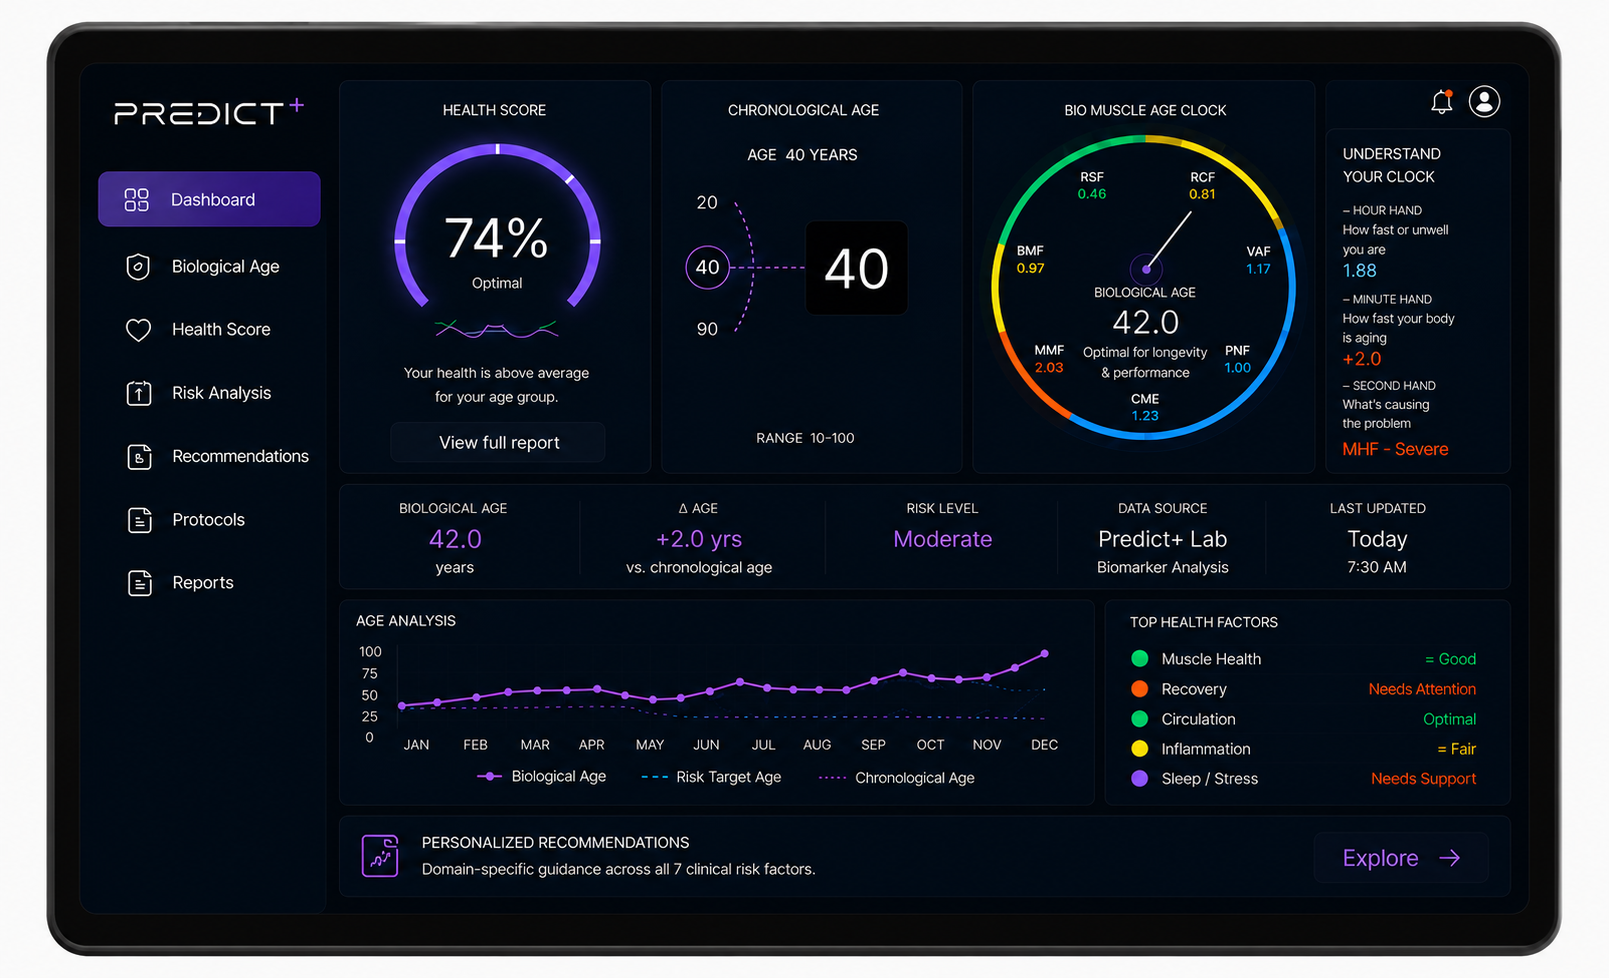
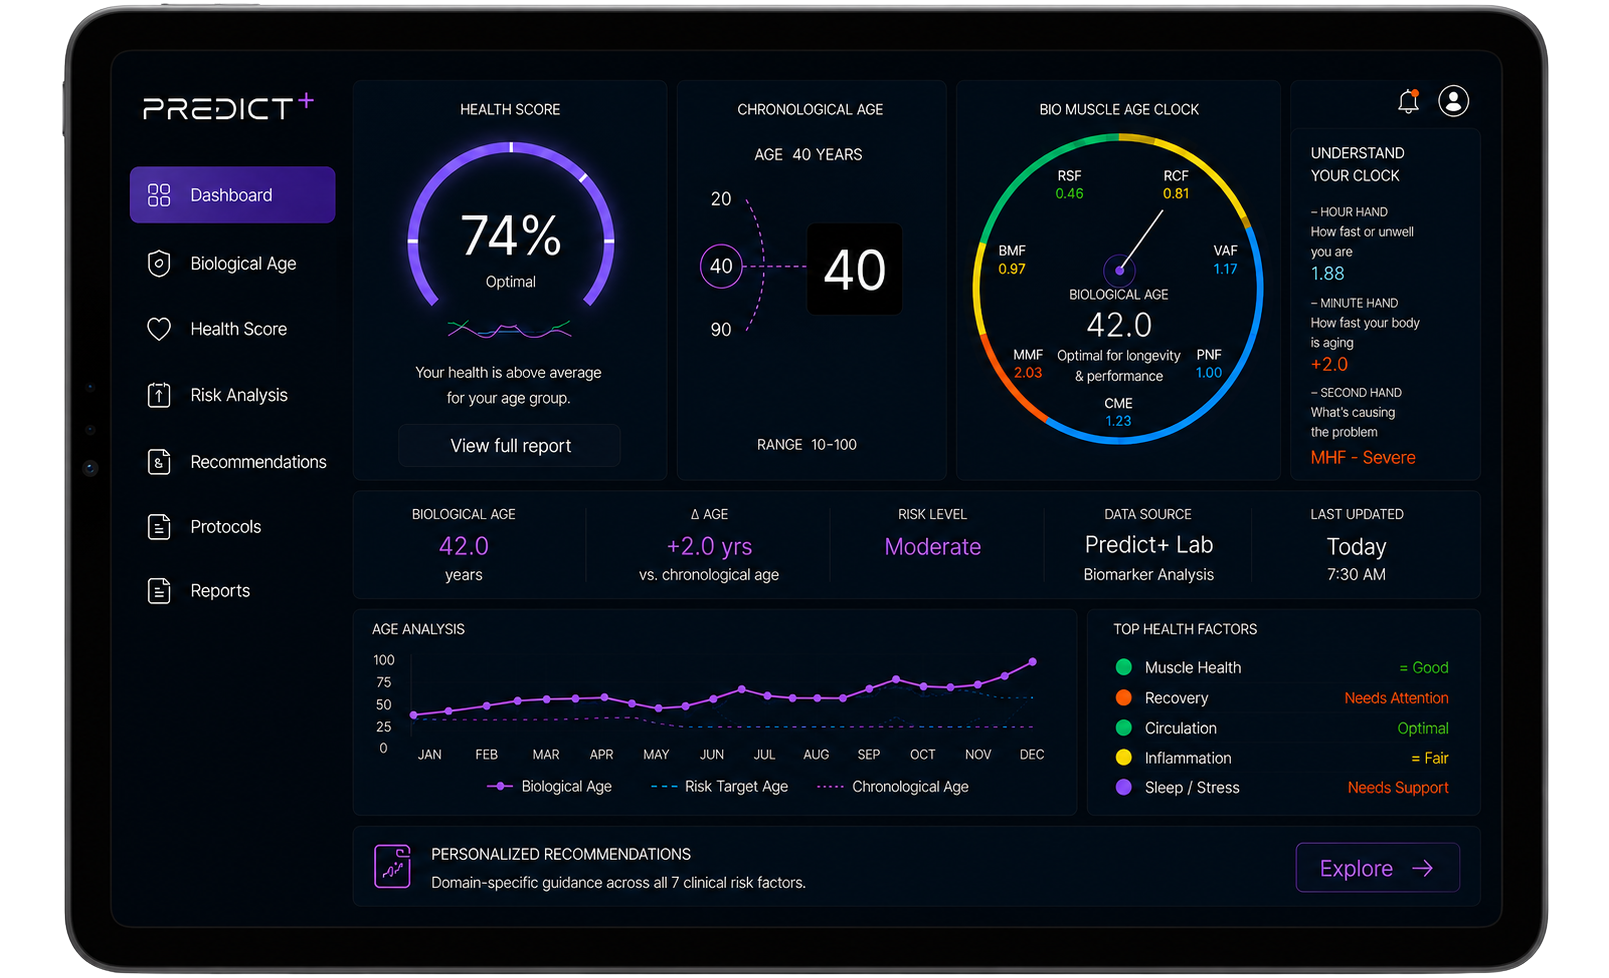
Update dashboard asset, single-row left-to-right testimonial marquee, and biomarker zoom-in scroll effect

diff --git a/src/components/Sections.tsx b/src/components/Sections.tsx
@@ -79,38 +79,36 @@ export default function Sections() {
       quote: "MuscleAGE™ is a pathbreaking approach that may redefine how we identify risks associated with aging and chronic disease. We are excited to explore collaborations with PREDICT.",
       author: "Prof. Prasun Chatterjee, MD",
       role: "Head, Geriatric Medicine, Apollo Hospitals",
-      image: "/assets/testimonial-1.png"
+      image: "/assets/prof-prasun.png"
     },
     {
       quote: "I experienced the MuscleAGE TM  assessment first hand and was impressed by both the science and the user journey. They told me a lot of about my macros and aging that I had no ideas about. Wishing Veeky and the PREDICT team success as they go out to build this category.",
       author: "Arjun Vaidya",
       role: "Partner, V3 Ventures",
-      image: "/assets/testimonial-2.png"
+      image: "/assets/arjun-vaidya.png"
     },
     {
       quote: "Longevity is about to get very interesting",
       author: "Brian Mac Mahon",
       role: "Co-Founder and Investor in Matchbook AI",
-      image: "/assets/testimonial-3.png"
+      image: "/assets/brian-macmahon.png"
     },
     {
       quote: "I underwent the LegAGE™ assessment and was genuinely surprised by how seamlessly complex biomarker science was translated into a consumer experience.",
       author: "Megha Gupta",
       role: "Longevity Influencer",
-      image: "/assets/testimonial-4.png"
+      image: "/assets/megha-gupta.png"
     },
     {
       quote: "For years we've measured disease after it appears. Technologies such as MuscleAGE™ may help us think differently—by quantifying biological burden before functional decline becomes apparent.",
       author: "Dr. Albery Hamiltion",
       role: "Orthopaedic Surgeon & Research Collaborator, USA",
-      image: "/assets/testimonial-5.png"
+      image: "/assets/dr-albery.png"
     }
   ];
 
   // Infinite Marquee duplicate sets
-  const row1 = [...testimonials, ...testimonials];
-  const row2 = [...testimonials.slice().reverse(), ...testimonials.slice().reverse()];
-  const row3 = [...testimonials.slice(2), ...testimonials.slice(0, 2), ...testimonials.slice(2), ...testimonials.slice(0, 2)];
+  const row1 = [...testimonials, ...testimonials, ...testimonials];
 
   return (
     <div className="relative w-full bg-[#ffffff] text-foreground">
@@ -160,92 +158,11 @@ export default function Sections() {
           </div>
         </div>
 
-        {/* Triple looping horizontal marquee */}
-        <div className="w-full flex flex-col gap-6 py-4 overflow-hidden hover-pause">
-          {/* Row 1 */}
+        {/* Single looping horizontal marquee moving left-to-right */}
+        <div className="w-full py-4 overflow-hidden hover-pause">
           <div className="marquee-container">
-            <div className="marquee-track animate-marquee-normal gap-6 flex">
+            <div className="marquee-track animate-marquee-reverse-normal gap-6 flex">
               {row1.map((t, idx) => (
-                <div
-                  key={idx}
-                  className="testimonial-card w-[420px] shrink-0 p-8 rounded-2xl flex flex-col justify-between hover:border-accent/30 transition-all duration-300"
-                >
-                  <p className="text-white/90 text-[13px] leading-relaxed mb-6 italic">
-                    &ldquo;{t.quote}&rdquo;
-                  </p>
-                  <div>
-                    {t.image ? (
-                      <>
-                        {/* eslint-disable-next-line @next/next/no-img-element */}
-                        <img 
-                          src={t.image} 
-                          alt={t.author} 
-                          className="w-[34px] h-[34px] rounded-full object-cover mb-3.5 border border-accent/28 shadow-[0_10px_24px_rgba(124,58,237,0.12)] inline-block"
-                          onError={(e) => {
-                            (e.currentTarget).style.display = 'none';
-                            const sibling = (e.currentTarget).nextElementSibling;
-                            if (sibling) sibling.classList.remove('hidden');
-                          }}
-                        />
-                        <div className="hidden">
-                          <ProfileMark />
-                        </div>
-                      </>
-                    ) : (
-                      <ProfileMark />
-                    )}
-                    <h4 className="text-white font-semibold text-sm">{t.author}</h4>
-                    <p className="text-primary-400 text-[10px] mt-0.5 font-bold uppercase tracking-wider">{t.role}</p>
-                  </div>
-                </div>
-              ))}
-            </div>
-          </div>
-
-          {/* Row 2 */}
-          <div className="marquee-container">
-            <div className="marquee-track animate-marquee-reverse-slow gap-6 flex">
-              {row2.map((t, idx) => (
-                <div
-                  key={idx}
-                  className="testimonial-card w-[420px] shrink-0 p-8 rounded-2xl flex flex-col justify-between hover:border-accent/30 transition-all duration-300"
-                >
-                  <p className="text-white/90 text-[13px] leading-relaxed mb-6 italic">
-                    &ldquo;{t.quote}&rdquo;
-                  </p>
-                  <div>
-                    {t.image ? (
-                      <>
-                        {/* eslint-disable-next-line @next/next/no-img-element */}
-                        <img 
-                          src={t.image} 
-                          alt={t.author} 
-                          className="w-[34px] h-[34px] rounded-full object-cover mb-3.5 border border-accent/28 shadow-[0_10px_24px_rgba(124,58,237,0.12)] inline-block"
-                          onError={(e) => {
-                            (e.currentTarget).style.display = 'none';
-                            const sibling = (e.currentTarget).nextElementSibling;
-                            if (sibling) sibling.classList.remove('hidden');
-                          }}
-                        />
-                        <div className="hidden">
-                          <ProfileMark />
-                        </div>
-                      </>
-                    ) : (
-                      <ProfileMark />
-                    )}
-                    <h4 className="text-white font-semibold text-sm">{t.author}</h4>
-                    <p className="text-primary-400 text-[10px] mt-0.5 font-bold uppercase tracking-wider">{t.role}</p>
-                  </div>
-                </div>
-              ))}
-            </div>
-          </div>
-
-          {/* Row 3 */}
-          <div className="marquee-container">
-            <div className="marquee-track animate-marquee-fast gap-6 flex">
-              {row3.map((t, idx) => (
                 <div
                   key={idx}
                   className="testimonial-card w-[420px] shrink-0 p-8 rounded-2xl flex flex-col justify-between hover:border-accent/30 transition-all duration-300"

diff --git a/src/components/BiomechanicalSection.tsx b/src/components/BiomechanicalSection.tsx
@@ -156,25 +156,24 @@ export default function BiomechanicalSection() {
     const card = cardRef.current;
     if (!section || !card) return;
 
-    const isMobile = window.matchMedia("(max-width: 768px)").matches;
-    const startScale = 0.85;
-    const endScale = isMobile ? 1.0 : 1.08;
+    const startScale = 0.05;
+    const endScale = 1.0;
 
     const ctx = gsap.context(() => {
       gsap.fromTo(card,
         {
           scale: startScale,
-          opacity: 0.85,
+          opacity: 0.1,
           transformOrigin: "center center"
         },
         {
           scale: endScale,
           opacity: 1,
-          ease: "none",
+          ease: "power1.out",
           scrollTrigger: {
             trigger: section,
-            start: "top 85%",
-            end: "bottom 20%",
+            start: "top 95%",
+            end: "top 25%",
             scrub: true,
           }
         }

diff --git a/src/app/globals.css b/src/app/globals.css
@@ -273,6 +273,10 @@ canvas {
   animation: marquee-reverse 65s linear infinite;
 }
 
+.animate-marquee-reverse-normal {
+  animation: marquee-reverse 45s linear infinite;
+}
+
 .animate-marquee-fast {
   animation: marquee 30s linear infinite;
 }
